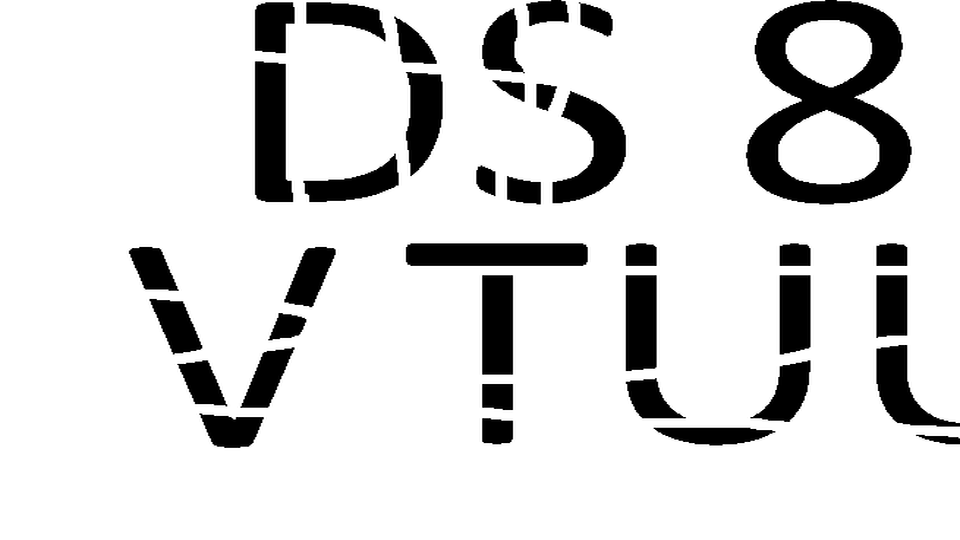
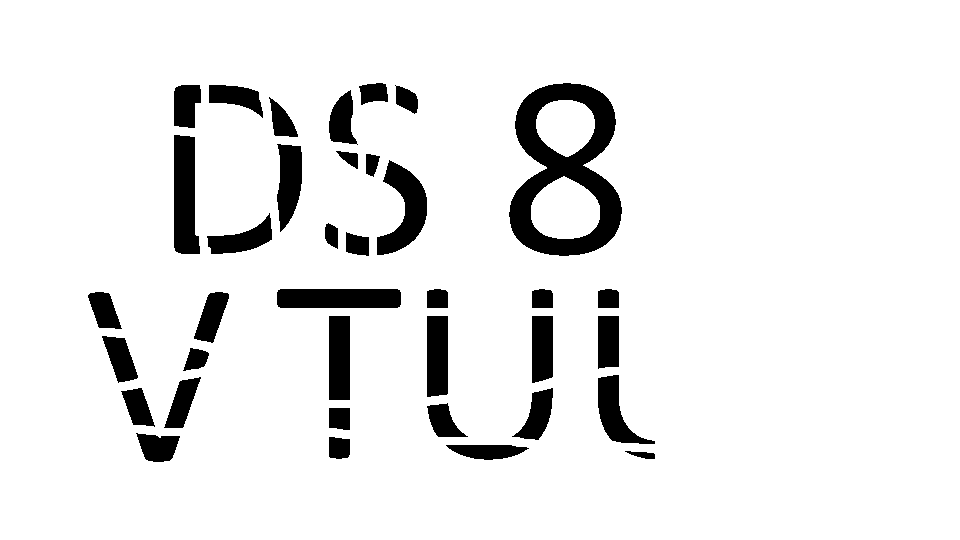
Lab 2 Res Fix

Changed region(s): [[0.0938, 0.0, 0.8438, 0.8593], [0.75, 0.0, 0.9688, 0.3852], [0.9062, 0.4444, 1.0, 0.8296]]

diff --git a/2/lab.py b/2/lab.py
@@ -4,15 +4,17 @@ import sys
 import numpy as np
 from PIL import Image
 
+
 def getDataFromFile(path: str) -> str:
     with open(path, 'r') as file:
         return file.read()
+
 
 def getCordsFromData(data: str) -> set:
     x = []
     y = []
 
-    data = data.split('\n') 
+    data = data.split('\n')
     for string in data:
         if string:
             x_, y_ = string.split(' ')
@@ -22,31 +24,37 @@ def getCordsFromData(data: str) -> set:
 
     return x, y
 
-def getImageArrayFromCords(x: List[int], y: List[int], color: List[int]) -> list:
-    imageArray = np.zeros([ max(y) + 1, max(x) + 1, 4], dtype=np.uint8)
+
+def getImageArrayFromCords(width: int, height: int, rgb: int, x: List[int], y: List[int], color: List[int]) -> list:
+    imageArray = np.zeros([height, width, rgb], dtype=np.uint8)
 
     for i in range(len(x)):
         imageArray[y[i]][x[i]] = color
-    
+
     return imageArray
 
+
 def enchanceImage(image):
-    image = image.resize((540, 960), Image.LANCZOS)
     image = image.rotate(90, expand=True)
 
     return image
 
+
 def changeExtToPng(path: str) -> str:
     return path[:path.find('.') + 1] + 'png'
 
+
 if __name__ == '__main__':
+    WIDTH = 540
+    HEIGHT = 960
+    RGB = 4  # RGBA
     COLOR = [0, 0, 0, 255]
 
     datasetPath = sys.argv[1]
 
     data = getDataFromFile(datasetPath)
     x, y = getCordsFromData(data)
-    imageArray = getImageArrayFromCords(x, y, COLOR)
+    imageArray = getImageArrayFromCords(WIDTH, HEIGHT, RGB, x, y, COLOR)
 
     image = Image.fromarray(imageArray)
     image = enchanceImage(image)
